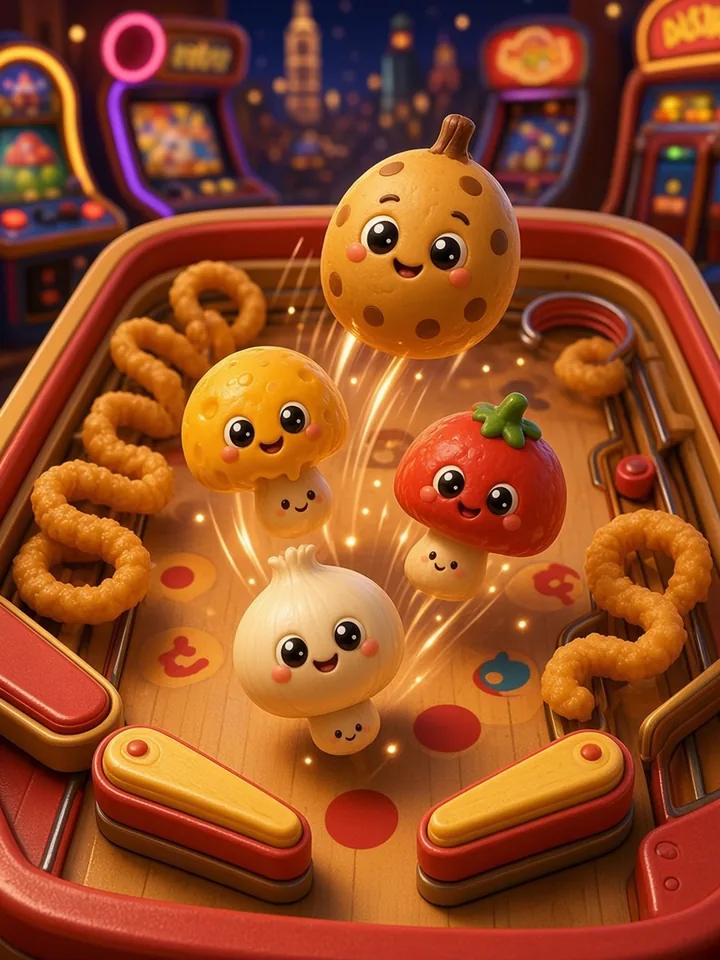
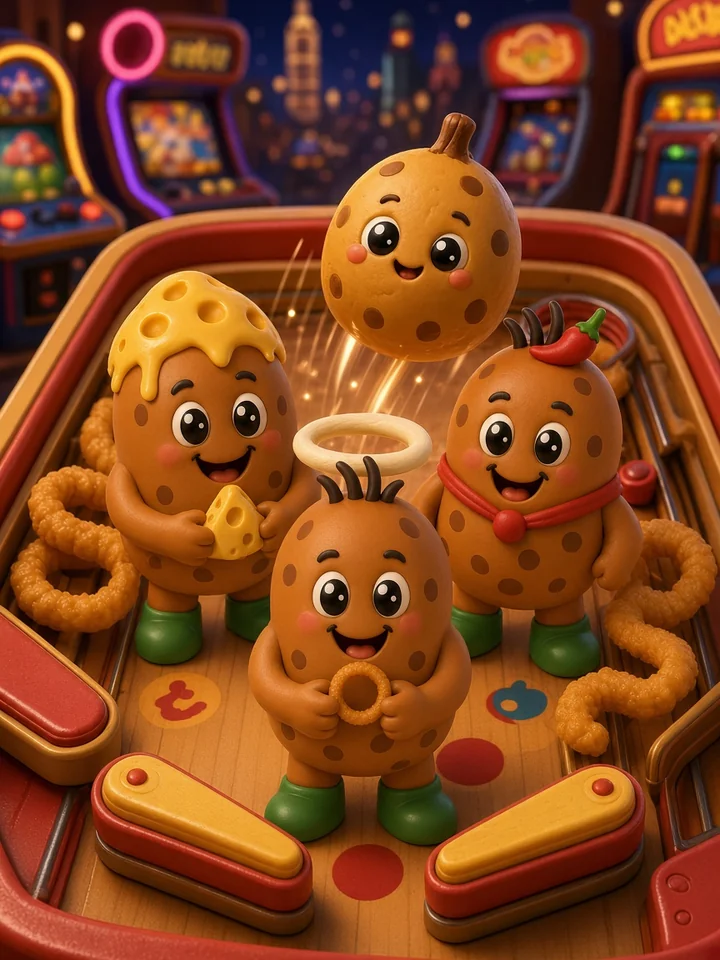
Spread Fry Pinball's clay potato bumpers so the ball can drain.
Replace the clustered mushroom bumpers with separate cheese, chili, and onion potato characters, remove the tight upper-left kicker, and cache-bust pinball.js to v=4.

diff --git a/games/pinball.js b/games/pinball.js
@@ -11,7 +11,7 @@ var pads=d.getElementById('pads'),btnL=d.getElementById('btnL'),btnR=d.getElemen
 var KEY='pcGamePinballBest';
 var W=0,H=0,dpr=1,run=false,frozen=false,over=false,score=0,best=G.getBest(KEY);
 var last=0,raf=0,mult=1,ballsLeft=3,combo=0,comboT=0,goldFlash=0,shake=0,chargeTick=0;
-var power=0,gateClosed=false,stillT=0,serveT=0,fadeBall=0,lastLaunch=0;
+var power=0,gateClosed=false,stillT=0,upperT=0,serveT=0,fadeBall=0,lastLaunch=0;
 var heldL=0,heldR=0,heldS=0,prevL=0,prevR=0;
 var pointers={},keys={l:0,r:0,s:0};
 var ball=null,parts=[],floats=[],lights=[];
@@ -80,7 +80,7 @@ function layout(){
   var arcR=(R-L)*0.5;
   var cx=(L+R)/2;
   var cy=top+arcR;
-  var br=Math.max(26,Math.min(38,playW*0.112));
+  var br=Math.max(22,Math.min(27,playW*0.082));
   var flipLen=Math.max(54,Math.min(70,playW*0.26));
   var flipY=bot-28;
   var restC=Math.cos(0.52);
@@ -88,11 +88,10 @@ function layout(){
   var leftPx=mid-pivotGap/2;
   var rightPx=mid+pivotGap/2;
   T={L:L,R:R,top:top,bot:bot,laneL:laneL,laneR:R,laneW:laneW,playW:playW,mid:mid,arcR:arcR,cx:cx,cy:cy,ballR:ballR,hudH:hudH,padH:padH,flipY:flipY,flipLen:flipLen};
-  var bumpY=cy+T.arcR*0.55+playW*0.20-52;
-
   walls=[];
-  /* outer cabinet rails */
+  /* outer cabinet rails — straight left wall, no tight kicker corner */
   addArc(cx,cy,arcR,Math.PI,Math.PI*2,22,6,0.4,'arch');
+  addWall(L,cy,L,bot-8,6,0.4,'wall');
   addWall(R,cy,R,bot-4,6,0.4,'wall');
   /* lane floor + inner lane wall (open at the arch so the ball can exit) */
   addWall(laneL+1,bot-4,R-1,bot-4,4,0.2,'laneFloor');
@@ -108,21 +107,10 @@ function layout(){
   var ir=apex(aRight,innerR);
   addWall(laneL-2,cy+8,ir.x,ir.y+2,5,0.18,'rail'); /* entrance bridge from the lane */
   var ex=apex(aLeft,innerR);
-  /* short inward lip aims the rail drop at the raised cluster, with bumper clearance */
-  addWall(ex.x,ex.y,ex.x+20,ex.y+22,5,0.16,'rail');
+  addWall(ex.x,ex.y,ex.x+12,ex.y+14,5,0.16,'rail'); /* short drop lip, no corner trap */
   railY=cy-innerR*0.15;
   T.innerR=innerR;T.aLeft=aLeft;T.aRight=aRight;
-
-  /* left wall splits into a downward kicker that feeds the raised bumper cluster */
   var midR=innerR+channel*0.45;
-  var kickStartY=cy+28;
-  var kickX=L+playW*0.12;
-  var kickEndY=Math.max(kickStartY+24,bumpY-10);
-  var leftReturnY=Math.max(kickEndY,bumpY)+br*1.25;
-  addWall(L,cy,L,kickStartY,6,0.4,'wall');
-  addWall(L,kickStartY,kickX,kickEndY,6,0.18,'kicker',200);
-  addWall(kickX,kickEndY,L,leftReturnY,6,0.28,'wall');
-  addWall(L,leftReturnY,L,bot-8,6,0.4,'wall');
 
   /* inlane slants funneling onto flippers (no cruel outlanes) */
   addWall(L,bot-110,leftPx-18,flipY+8,6,0.38,'wall');
@@ -144,17 +132,19 @@ function layout(){
   });
 
   var saveB=bumpers.map(function(b){return {flash:b.flash,pop:b.pop,cd:b.cd}});
-  /* bumper cluster already lifted ~52px via bumpY */
+  /* three flavor potatoes spread across the mid-upper field with wide lanes between them */
+  var minGap=ballR*2.8;
+  var wallFace=L+6, laneFace=laneL-4;
   bumpers=[
-    {id:'cheese',x:mid-playW*0.165,y:bumpY,r:br,img:IM.cheese,color:'#f5c430',score:100,flash:0,pop:0,cd:0},
-    {id:'chili',x:mid+playW*0.165,y:bumpY,r:br,img:IM.chili,color:'#d3261f',score:100,flash:0,pop:0,cd:0},
-    {id:'onion',x:mid,y:bumpY+br*1.55,r:br,img:IM.onion,color:'#efe6c8',score:100,flash:0,pop:0,cd:0}
+    {id:'cheese',x:wallFace+br+minGap+12,y:cy+arcR*0.74,r:br,img:IM.cheese,color:'#f5c430',score:100,flash:0,pop:0,cd:0},
+    {id:'chili',x:laneFace-br-minGap-12,y:cy+arcR*0.62+playW*0.24,r:br,img:IM.chili,color:'#d3261f',score:100,flash:0,pop:0,cd:0},
+    {id:'onion',x:mid-playW*0.04,y:cy+arcR*0.62+playW*0.50,r:br,img:IM.onion,color:'#efe6c8',score:100,flash:0,pop:0,cd:0}
   ];
   for(var i=0;i<saveB.length&&i<bumpers.length;i++){
     bumpers[i].flash=saveB[i].flash;bumpers[i].pop=saveB[i].pop;bumpers[i].cd=saveB[i].cd;
   }
 
-  var ty=bumpY+br*2.55;
+  var ty=bumpers[0].y+br+14;
   var saveDown=targets.map(function(t){return t.down});
   targets=[
     {x:L+22,y:ty,w:18,h:28,down:!!saveDown[0],color:'#f5c430',cd:0},
@@ -239,7 +229,7 @@ function serveBall(){
   var x=(T.laneL+T.R)/2;
   var y=T.bot-4-T.ballR-1;
   ball=makeBall(x,y,'lane');
-  power=0;gateClosed=false;stillT=0;serveT=0;fadeBall=0;
+  power=0;gateClosed=false;stillT=0;upperT=0;serveT=0;fadeBall=0;
 }
 
 function flipEnds(f){
@@ -312,10 +302,7 @@ function collideWalls(b){
       if(!gateClosed&&b.mode==='lane')continue;
       if(!gateClosed&&b.x>T.laneL-b.r*0.4)continue;
     }
-    var kick=w.kick;
-    /* kicker is a one-way feed: only punch falling balls, so bumper rebounds can escape to the flippers */
-    if(w.kind==='kicker'&&b.vy<30)kick=0;
-    hit=resolveCapsule(b,w.ax,w.ay,w.bx,w.by,w.rad,w.e,kick);
+    hit=resolveCapsule(b,w.ax,w.ay,w.bx,w.by,w.rad,w.e,w.kick);
     if(hit&&w.kind==='sling'){
       var sl=slings[w.ax<T.mid?0:1];
       if(sl&&sl.cd<=0){
@@ -372,7 +359,7 @@ function collideBumpers(b){
     b.x+=nx*(minD-dist);b.y+=ny*(minD-dist);
     vn=b.vx*nx+b.vy*ny;
     if(vn<0){b.vx-=1.15*vn*nx;b.vy-=1.15*vn*ny}
-    kick=440;
+    kick=380;
     b.vx+=nx*kick;b.vy+=ny*kick;
     var sp=Math.hypot(b.vx,b.vy);
     if(sp>MAXV){b.vx=b.vx/sp*MAXV;b.vy=b.vy/sp*MAXV}
@@ -546,7 +533,7 @@ function showOver(){
 }
 
 function resetState(){
-  parts=[];floats=[];ball=null;power=0;gateClosed=false;stillT=0;serveT=0;
+  parts=[];floats=[];ball=null;power=0;gateClosed=false;stillT=0;upperT=0;serveT=0;
   setScore(0);setMult(1);ballsLeft=3;combo=0;comboT=0;goldFlash=0;shake=0;
   over=false;frozen=false;heldL=heldR=heldS=0;pointers={};keys={l:0,r:0,s:0};
   for(var i=0;i<gates.length;i++)gates[i].lit=false;
@@ -652,7 +639,17 @@ function physics(dt){
           spawnBurst(ball.x,ball.y,'#fff6bf',8,120);
         }
       }else stillT=0;
-    }else stillT=0;
+      /* if a ball stays in the upper field too long, nudge it down so it can never farm a corner forever */
+      if(ball.y<T.flipY-180){
+        upperT+=dt;
+        if(upperT>=4){
+          upperT=1.2;
+          ball.vy+=640;
+          ball.vx*=0.55;
+          spawnBurst(ball.x,ball.y,'#fff6bf',8,140);
+        }
+      }else upperT=0;
+    }else{stillT=0;upperT=0}
   }
 
   for(i=parts.length-1;i>=0;i--){
@@ -826,8 +823,6 @@ function draw(){
   strokeWalls('arch','#fce404',7,14);
   strokeWalls('arch','#fff6bf',2.5,0);
   strokeWalls('wall','#f0c14a',6,8);
-  strokeWalls('kicker','#e89220',7,10);
-  strokeWalls('kicker','#ffe36b',2.5,0);
   strokeWalls('laneInner','#f0c14a',6,8);
   if(gateClosed)strokeWalls('gateDoor','#ff8a3a',6,10);
   strokeWalls('rail','#9ad4ff',6,12);
@@ -914,9 +909,9 @@ function draw(){
     ctx.globalAlpha=1;
     ctx.shadowBlur=0;
     im=p.img;
-    var sz=p.r*2.15;
+    var szW=p.r*2.35,szH=p.r*2.85;
     if(ready(im)){
-      ctx.drawImage(im,-sz/2,-sz/2-2,sz,sz);
+      ctx.drawImage(im,-szW/2,-szH/2-2,szW,szH);
     }else{
       ctx.fillStyle=p.color;
       ctx.beginPath();ctx.arc(0,0,p.r,0,Math.PI*2);ctx.fill();

diff --git a/games/pinball.html b/games/pinball.html
@@ -47,6 +47,6 @@
 </div>
 </div>
 <script src="games.js?v=7"></script>
-<script src="pinball.js?v=3"></script>
+<script src="pinball.js?v=4"></script>
 </body>
 </html>
